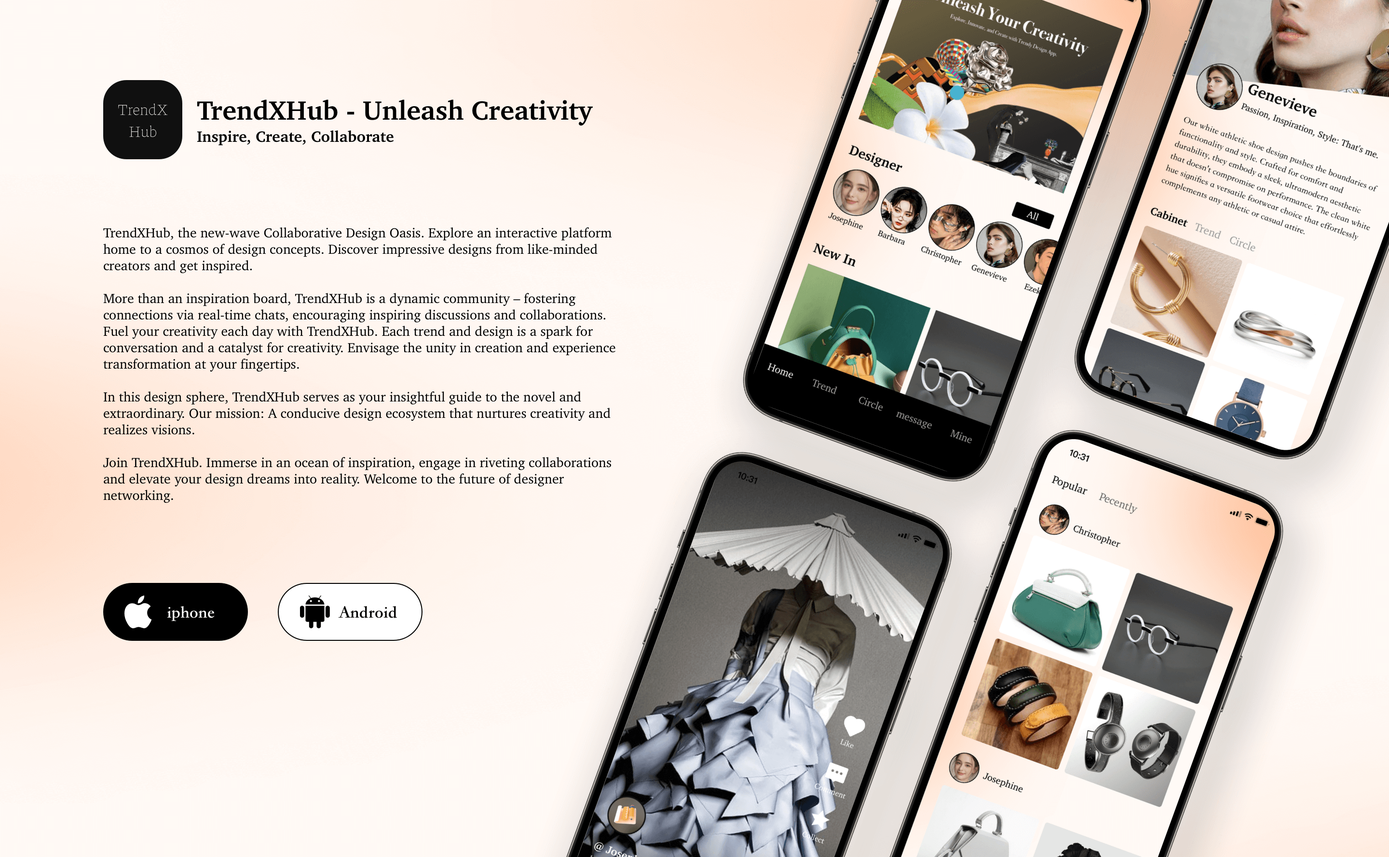
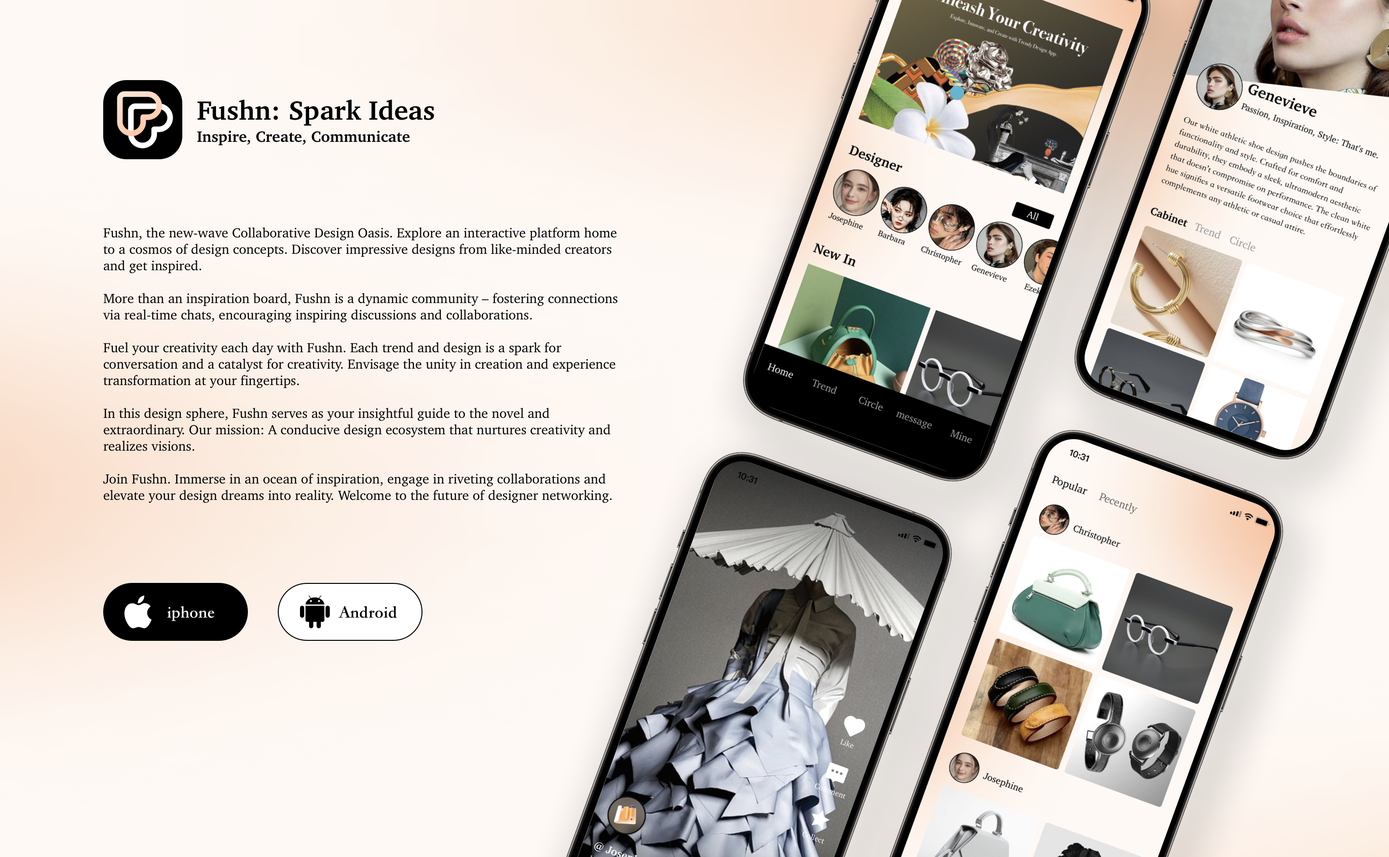
appname 修改

Changed region(s): [[0.0625, 0.2477, 0.4375, 0.5884], [0.0625, 0.0929, 0.4375, 0.1858], [0.6875, 0.0929, 0.7188, 0.1239]]

diff --git a/index.html b/index.html
@@ -4,7 +4,7 @@
   <meta charset="UTF-8">
   <meta name="viewport" content="width=device-width, initial-scale=1.0">
   <link rel="icon" href="/favicon.svg" type="image/svg+xml">
-  <title>TrendXhub</title>
+  <title>Fushn</title>
   <meta name="description" content="Opinionated Vite Starter Template">
 </head>
 <body class="font-sans">

diff --git a/src/pages/privacy.vue b/src/pages/privacy.vue
@@ -2,7 +2,7 @@
 defineOptions({
   name: 'IndexPage',
 })
-const appName = 'TrendXhub'
+const appName = 'Fushn'
 </script>
 
 <template>

diff --git a/src/pages/users.vue b/src/pages/users.vue
@@ -2,7 +2,7 @@
 defineOptions({
   name: 'IndexPage',
 })
-const appName = 'TrendXhub'
+const appName = 'Fushn'
 </script>
 
 <template>
